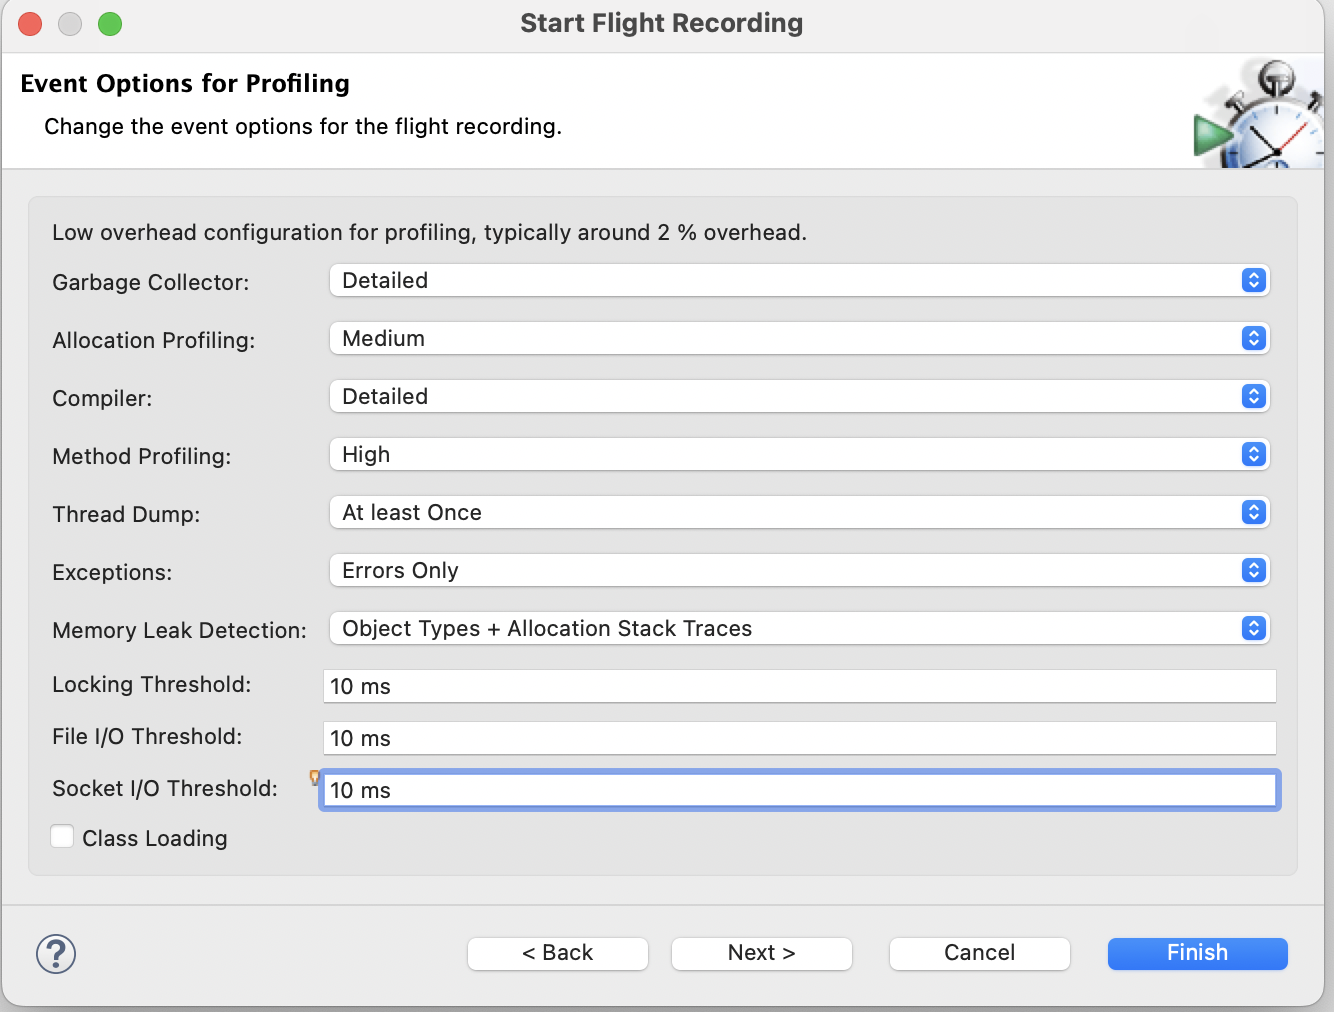
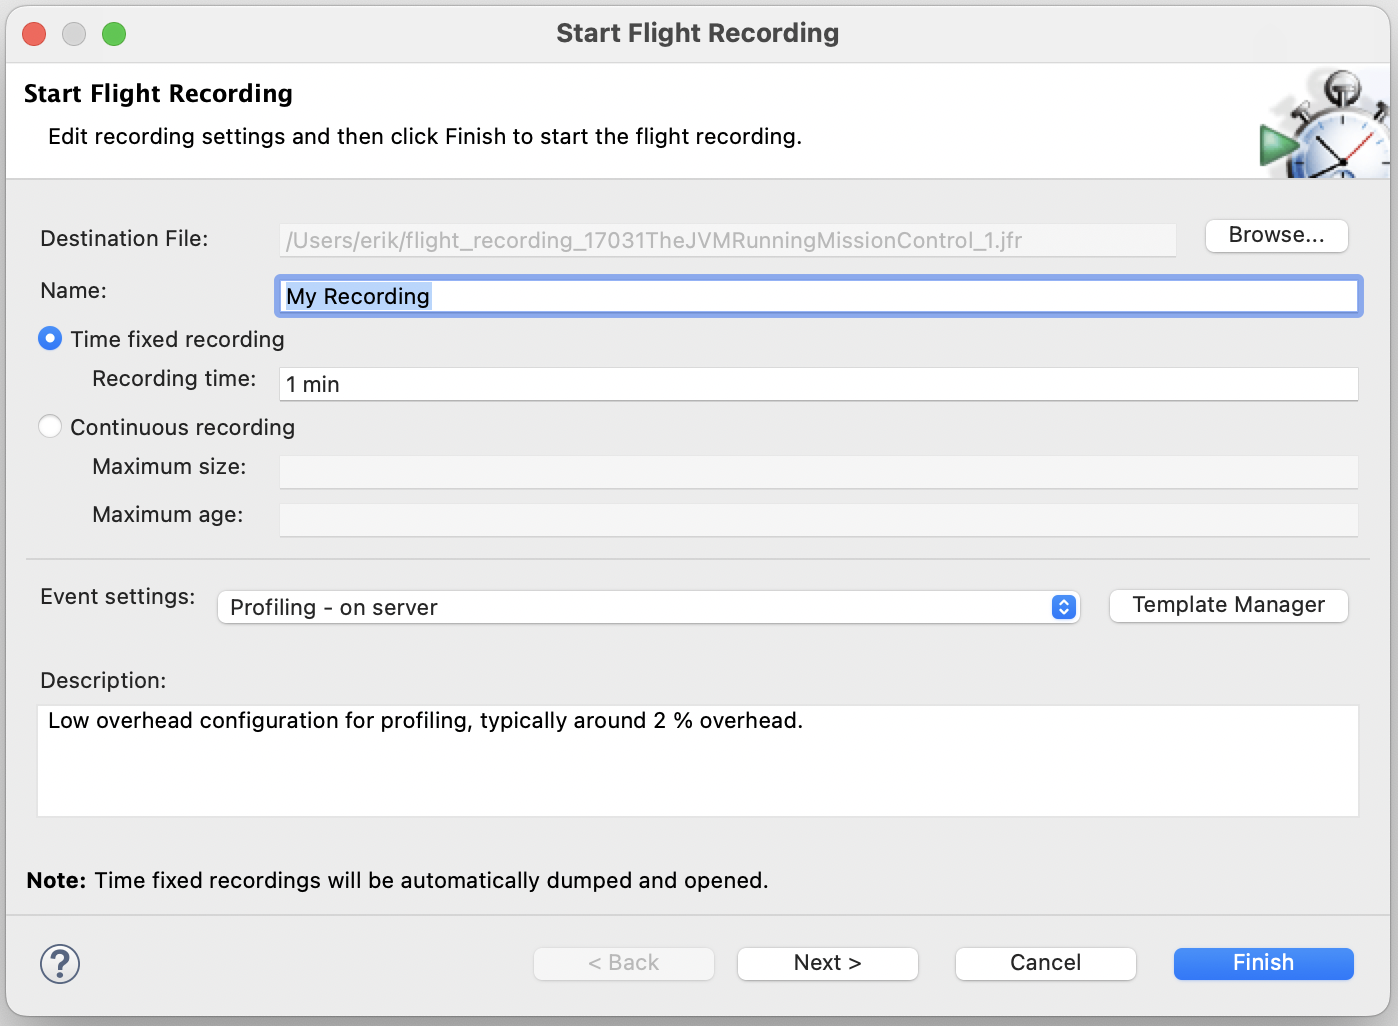
Update image

Changed region(s): [[0.0, 0.0, 0.9835, 1.0], [0.8913, 0.0306, 1.0, 0.1838], [0.3688, 0.0, 0.6147, 0.0613]]

diff --git a/_posts/2022-05-30-improved-ergonomics.md b/_posts/2022-05-30-improved-ergonomics.md
@@ -51,8 +51,9 @@ To start interactive mode, use the *--interactive* flag:
     2. Normal
     3. Detailed
     4. All
+    
+    ...
 
-![Interactive Mode]({{ site.baseurl }}/assets/jfr-confguration-wizard.png){: class="center_85" }
 
 By default, the configuration is written to a file called custom.jfc. This file can be passed to [-XX:StartFlightRecording](https://docs.oracle.com/en/java/javase/17/docs/specs/man/java.html) or [jcmd](https://docs.oracle.com/en/java/javase/17/docs/specs/man/jcmd.html) when starting a recording:
 
